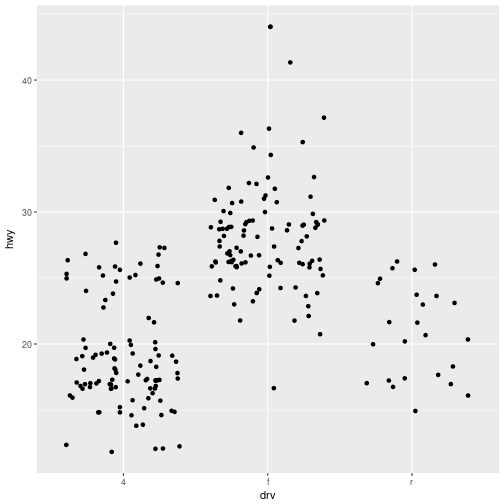
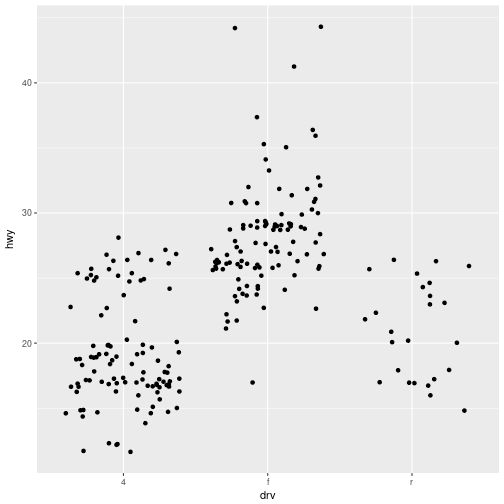
edit README. add set.seed to jitter plot

diff --git a/index.html b/index.html
@@ -1022,11 +1022,12 @@ Streudiagramm.</p>
 <section data-transition="concave" data-transition-speed="default">
 <h3>Jitterplots</h3>
 <div class="mediaInline slideContent" >
-<pre><code class="r">ggplot(data = mpg, aes(x = drv, y = hwy)) + 
+<pre><code class="r">set.seed(123)
+ggplot(data = mpg, aes(x = drv, y = hwy)) + 
   geom_jitter()
 </code></pre>
 
[2 lines of base64/hex data omitted]
 
 </div>
 

diff --git a/Graphics_in_R.md b/Graphics_in_R.md
@@ -187,6 +187,7 @@ Jitterplots
 ========================================================
 
 ```r
+set.seed(123)
 ggplot(data = mpg, aes(x = drv, y = hwy)) + 
   geom_jitter()
 ```

diff --git a/README.md b/README.md
@@ -1,2 +1,3 @@
-# gir
-Graphics in R
+# Graphics in R
+
+Workshop im Rahmen der internen Fortbildung.
